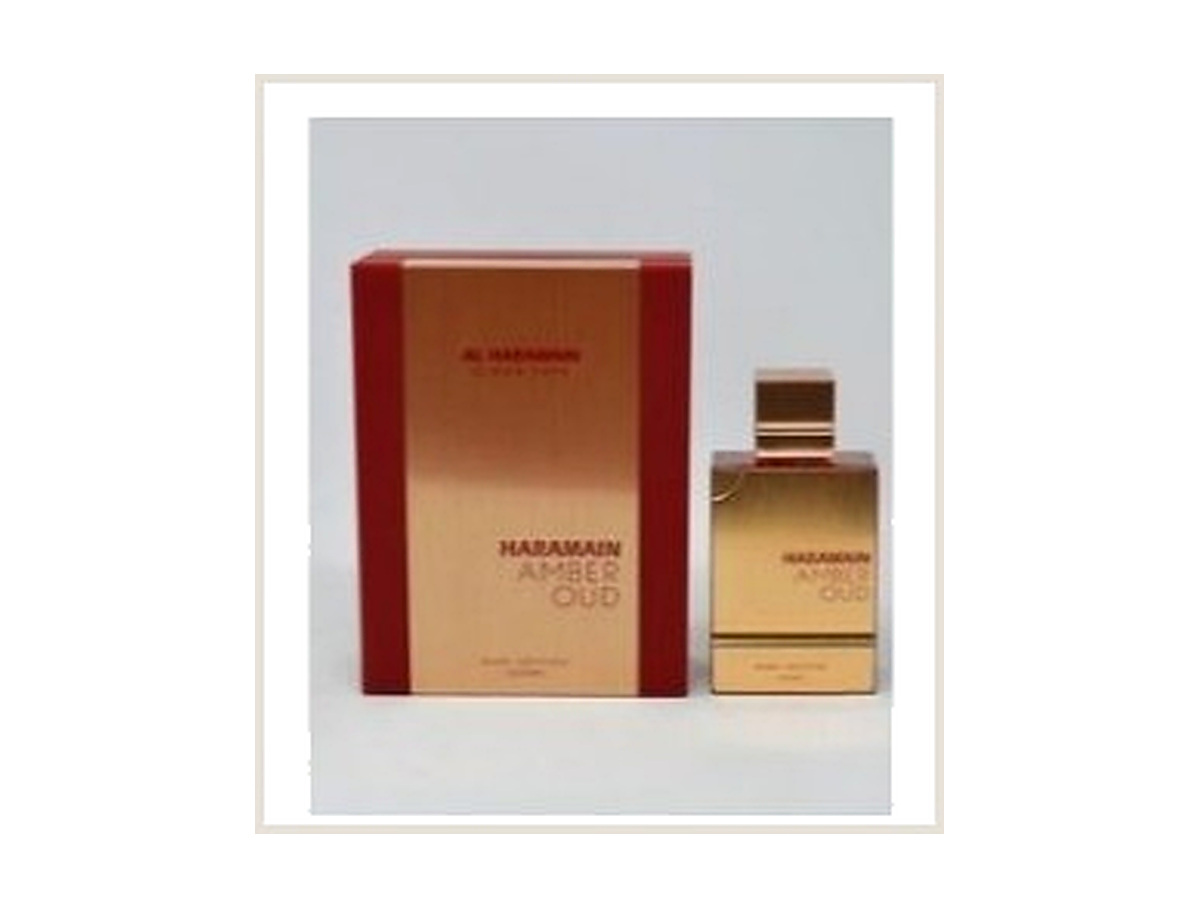
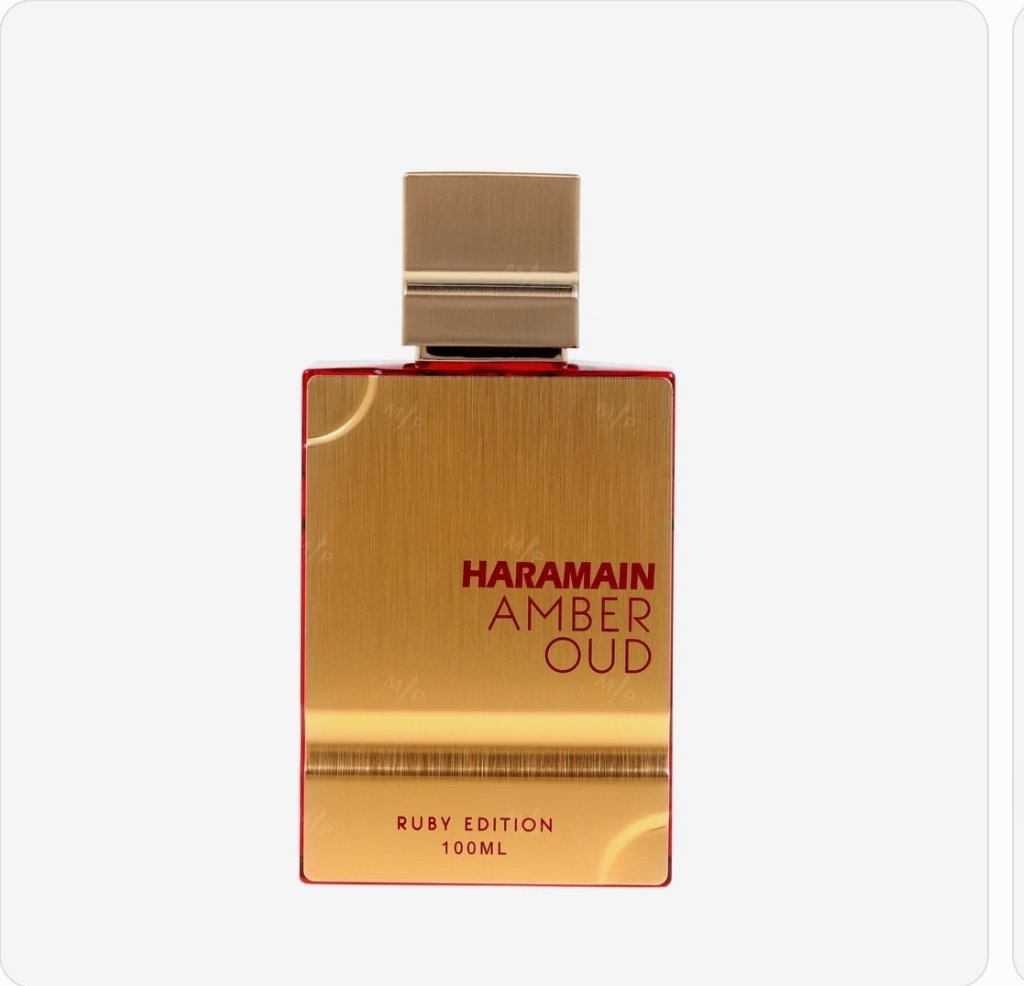
Replace Amber Oud Ruby Edition photos with Boss's new shots

diff --git a/index.html b/index.html
@@ -714,7 +714,7 @@
         { name:'Yves Saint Laurent Myslf Cologne for Men', niche:'Yves Saint Laurent · Men · 3.4 oz EDP', direction:'Bright citrus, orange blossom and woods', description:'Sparkling citrus meets a clean orange-blossom heart and a warm woody finish. Polished and versatile, with a contemporary dressed-up feel.', category:'fresh', images:[{src:'assets/product-ysl-myslf.jpg', alt:'Yves Saint Laurent Myslf black bottle and box — clean packshot'},{src:'assets/gallery-ysl-myslf-1.jpg', alt:'Yves Saint Laurent Myslf Cologne for Men — customer photo 1'},{src:'assets/gallery-ysl-myslf-2.jpg', alt:'Yves Saint Laurent Myslf Cologne for Men — customer photo 2'},{src:'assets/gallery-ysl-myslf-3.jpg', alt:'Yves Saint Laurent Myslf Cologne for Men — customer photo 3'}], price:125, decantPrice:31, originalPrice:145, featured:23 , paymentLink:'https://buy.stripe.com/fZu7sNfDj8s49Oa3ujf7i0R'},
         { name:'Versace Eros Flame Cologne for Men', niche:'Versace · Men · 3.4 oz EDP', direction:'Spiced citrus, herbs and vanilla woods', description:'Vibrant citrus and pepper lead into aromatic herbs, warm woods and vanilla. Fiery and confident, with a bold evening-ready trail.', category:'amber', images:[{src:'assets/product-versace-eros-flame.jpg', alt:'Versace Eros Flame red bottle and box — clean packshot'},{src:'assets/gallery-versace-eros-flame-1.jpg', alt:'Versace Eros Flame Cologne for Men — customer photo 1'},{src:'assets/gallery-versace-eros-flame-2.jpg', alt:'Versace Eros Flame Cologne for Men — customer photo 2'},{src:'assets/gallery-versace-eros-flame-3.jpg', alt:'Versace Eros Flame Cologne for Men — customer photo 3'},{src:'assets/gallery-versace-eros-flame-4.jpg', alt:'Versace Eros Flame Cologne for Men — customer photo 4'}], price:79, decantPrice:20, originalPrice:95, featured:24 , paymentLink:'https://buy.stripe.com/28E5kFbn30ZC3pMc0Pf7i0S'},
         { name:'Lattafa His Confession Cologne for Men', niche:'Lattafa · Men · 3.4 oz EDP', direction:'Warm spice, iris and amber woods', description:'A smooth blend of warm spice and powdery iris deepens into amber, vanilla and woods. Rich and composed, with a softly mysterious finish.', category:'amber', images:[{src:'assets/product-lattafa-his-confession.jpg', alt:'Lattafa His Confession black and gold bottle and box — clean packshot'}], price:36, decantPrice:9, originalPrice:44, featured:25 , paymentLink:'https://buy.stripe.com/dRmcN7bn337KbWifd1f7i0Q'},
-        { name:'Al Haramain Amber Oud Ruby Perfume for Women', niche:'Al Haramain · Women · 3.4 oz EDP', direction:'Saffron, amberwood and warm musk', description:'Radiant saffron and warm amberwood meet a smooth musky base. Bold and polished, with a rich sweetness that lingers.', category:'amber', images:[{src:'assets/product-al-haramain-amber-oud-ruby.jpg', alt:'Al Haramain Amber Oud Ruby bottle and box — clean packshot'}], price:59, decantPrice:15, originalPrice:72, featured:26 , paymentLink:'https://buy.stripe.com/aFacN776NcIkgcy3ujf7i0P'},
+        { name:'Al Haramain Amber Oud Ruby Perfume for Women', niche:'Al Haramain · Women · 3.4 oz EDP', direction:'Saffron, amberwood and warm musk', description:'Radiant saffron and warm amberwood meet a smooth musky base. Bold and polished, with a rich sweetness that lingers.', category:'amber', images:[{src:'assets/product-al-haramain-amber-oud-ruby.jpg', alt:'Al Haramain Amber Oud Ruby bottle front on a clean white background'},{src:'assets/product-al-haramain-amber-oud-ruby-2.jpg', alt:'Al Haramain Amber Oud Ruby bottle and box on a clean white background'}], price:59, decantPrice:15, originalPrice:72, featured:26 , paymentLink:'https://buy.stripe.com/aFacN776NcIkgcy3ujf7i0P'},
         { name:'Yves Saint Laurent Libre Perfume for Women', niche:'Yves Saint Laurent · Women · 3.0 oz EDP', direction:'Lavender, orange blossom and vanilla', description:'Aromatic lavender contrasts with luminous orange blossom before settling into warm vanilla. Confident, elegant and distinctly modern.', category:'amber', images:[{src:'assets/product-ysl-libre.jpg', alt:'Yves Saint Laurent Libre bottle and box — clean packshot'},{src:'assets/gallery-ysl-libre-1.jpg', alt:'Yves Saint Laurent Libre Perfume for Women — customer photo 1'}], price:125, decantPrice:31, originalPrice:145, featured:27 , paymentLink:'https://buy.stripe.com/7sY4gB9eV4bO0dAgh5f7i0N'},
         { name:'Carolina Herrera Good Girl Perfume for Women', niche:'Carolina Herrera · Women · 2.7 oz EDP', direction:'White florals, cacao and tonka', description:'Lush white florals meet a darker base of cacao, tonka and warm woods. Glamorous and dramatic, with a sweet evening character.', category:'sweet', images:[{src:'assets/product-carolina-herrera-good-girl.jpg', alt:'Carolina Herrera Good Girl stiletto bottle and box on a clean white background'},{src:'assets/product-carolina-herrera-good-girl-2.jpg', alt:'Carolina Herrera Good Girl stiletto bottle, angled view'},{src:'assets/product-carolina-herrera-good-girl-3.jpg', alt:'Carolina Herrera Good Girl stiletto bottle, side view'}], price:105, decantPrice:26, originalPrice:125, featured:28 , paymentLink:'https://buy.stripe.com/7sY28tgHn5fSf8u0i7f7i0O'},
         { name:'Mont Blanc Explorer Cologne for Men (Tester)', niche:'Mont Blanc · Men · 3.3 oz EDP · Tester', direction:'Bergamot, aromatic woods and leather', description:'Tester version: the authentic 3.3 oz fragrance supplied in tester packaging rather than standard retail presentation. Fresh bergamot moves into aromatic woods and a smooth leather-toned base.', category:'woody', images:[{src:'assets/product-montblanc-explorer-tester.jpg', alt:'Mont Blanc Explorer tester bottle and tester box — clean packshot'},{src:'assets/gallery-montblanc-explorer-1.jpg', alt:'Mont Blanc Explorer Cologne for Men (Tester) — customer photo 1'},{src:'assets/gallery-montblanc-explorer-2.jpg', alt:'Mont Blanc Explorer Cologne for Men (Tester) — customer photo 2'},{src:'assets/gallery-montblanc-explorer-3.jpg', alt:'Mont Blanc Explorer Cologne for Men (Tester) — customer photo 3'}], price:49, decantPrice:12, originalPrice:62, featured:29 , paymentLink:'https://buy.stripe.com/4gMcN7ezf5fSf8u0i7f7i1l'},
